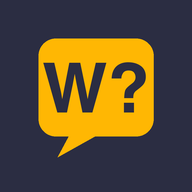
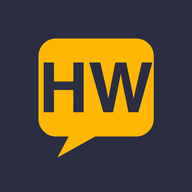
Show emoji pictures instead of word text; rename game to Hard Words

Changed region(s): [[0.2188, 0.3125, 0.8125, 0.5938]]

diff --git a/data/categories.js b/data/categories.js
@@ -1,5 +1,7 @@
 // Game content. To add a category or item, edit this file only.
-// (Then bump CACHE_VERSION in service-worker.js so installed copies refresh.)
+// Each item is a picture (emoji) shown on screen, plus a name that is kept for
+// screen readers but never shown. (Then bump CACHE_VERSION in service-worker.js
+// so installed copies refresh.)
 window.CATEGORIES = {
   categories: [
     {
@@ -7,17 +9,36 @@ window.CATEGORIES = {
       name: "Everyday Items",
       icon: "👜",
       items: [
-        "Toothbrush", "Umbrella", "Stapler", "Remote Control", "Backpack",
-        "Coffee Mug", "Alarm Clock", "Wallet", "Car Keys", "Sunglasses",
-        "Hair Dryer", "Microwave", "Toaster", "Scissors", "Tape Measure",
-        "Flashlight", "Garbage Can", "Bicycle", "Laundry Basket", "Pillow",
-        "Shopping Cart", "Vacuum Cleaner", "Frying Pan", "Refrigerator", "Doorbell",
-        "Light Bulb", "Paper Clip", "Calculator", "Razor", "Shower Curtain",
-        "Ironing Board", "Garden Hose", "Lawn Mower", "Ladder", "Mailbox",
-        "Water Bottle", "Cell Phone", "Headphones", "Laptop", "Printer",
-        "Broom", "Mop", "Sponge", "Dish Soap", "Blender",
-        "Can Opener", "Bathtub", "Mirror", "Clothes Hanger", "Watch",
-        "Backpack Zipper", "Trash Bag", "Rubber Band", "Sticky Note", "Doormat"
+        { emoji: "🪥", name: "Toothbrush" }, { emoji: "☂", name: "Umbrella" },
+        { emoji: "📎", name: "Paper Clip" }, { emoji: "📺", name: "Television" },
+        { emoji: "🎒", name: "Backpack" }, { emoji: "☕", name: "Coffee Mug" },
+        { emoji: "⏰", name: "Alarm Clock" }, { emoji: "👛", name: "Purse" },
+        { emoji: "🔑", name: "Key" }, { emoji: "🕶", name: "Sunglasses" },
+        { emoji: "🧹", name: "Broom" }, { emoji: "🧽", name: "Sponge" },
+        { emoji: "🧻", name: "Toilet Paper" }, { emoji: "🧼", name: "Soap" },
+        { emoji: "🪣", name: "Bucket" }, { emoji: "🛁", name: "Bathtub" },
+        { emoji: "🚿", name: "Shower" }, { emoji: "🚽", name: "Toilet" },
+        { emoji: "🪞", name: "Mirror" }, { emoji: "🪑", name: "Chair" },
+        { emoji: "🛏", name: "Bed" }, { emoji: "🛋", name: "Couch" },
+        { emoji: "🚪", name: "Door" }, { emoji: "🪟", name: "Window" },
+        { emoji: "💡", name: "Light Bulb" }, { emoji: "🔦", name: "Flashlight" },
+        { emoji: "🔋", name: "Battery" }, { emoji: "🔌", name: "Plug" },
+        { emoji: "📱", name: "Cell Phone" }, { emoji: "💻", name: "Laptop" },
+        { emoji: "🎧", name: "Headphones" }, { emoji: "🖨", name: "Printer" },
+        { emoji: "⌚", name: "Watch" }, { emoji: "✂", name: "Scissors" },
+        { emoji: "📏", name: "Ruler" }, { emoji: "📌", name: "Pushpin" },
+        { emoji: "🖊", name: "Pen" }, { emoji: "✏", name: "Pencil" },
+        { emoji: "📕", name: "Book" }, { emoji: "📰", name: "Newspaper" },
+        { emoji: "🧦", name: "Socks" }, { emoji: "👟", name: "Sneaker" },
+        { emoji: "🧢", name: "Baseball Cap" }, { emoji: "👓", name: "Glasses" },
+        { emoji: "🪒", name: "Razor" }, { emoji: "🪠", name: "Plunger" },
+        { emoji: "🧺", name: "Laundry Basket" }, { emoji: "🔨", name: "Hammer" },
+        { emoji: "🪜", name: "Ladder" }, { emoji: "🚲", name: "Bicycle" },
+        { emoji: "🛒", name: "Shopping Cart" }, { emoji: "🥄", name: "Spoon" },
+        { emoji: "🍴", name: "Fork and Knife" }, { emoji: "🍽", name: "Plate" },
+        { emoji: "🧯", name: "Fire Extinguisher" }, { emoji: "🧲", name: "Magnet" },
+        { emoji: "🕯", name: "Candle" }, { emoji: "✉", name: "Envelope" },
+        { emoji: "📦", name: "Package" }, { emoji: "🗑", name: "Trash Can" }
       ]
     },
     {
@@ -25,17 +46,29 @@ window.CATEGORIES = {
       name: "Holiday",
       icon: "🎄",
       items: [
-        "Christmas Tree", "Fireworks", "Jack-o-Lantern", "Menorah", "Turkey",
-        "Easter Egg", "Santa Claus", "Reindeer", "Snowman", "Candy Cane",
-        "Stocking", "Wreath", "Gingerbread House", "Mistletoe", "Eggnog",
-        "Valentine's Card", "Chocolate Heart", "Cupid", "Leprechaun", "Pot of Gold",
-        "Easter Bunny", "Basket", "Trick-or-Treat", "Witch Hat", "Ghost",
-        "Cobweb", "Pumpkin Pie", "Cranberry Sauce", "Thanksgiving Parade", "Pilgrim",
-        "Sparkler", "Confetti", "Countdown", "Champagne Toast", "New Year's Resolution",
-        "Gift Wrap", "Bow", "Ornament", "Tinsel", "Nutcracker",
-        "Advent Calendar", "Elf on the Shelf", "Dreidel", "Kwanzaa Candles", "Piñata",
-        "American Flag", "Barbecue", "Fourth of July Parade", "Candy Corn", "Costume Party",
-        "Christmas Carolers", "Snow Globe", "Sleigh", "Yule Log", "Fruitcake"
+        { emoji: "🎄", name: "Christmas Tree" }, { emoji: "🎆", name: "Fireworks" },
+        { emoji: "🎃", name: "Jack-o-Lantern" }, { emoji: "🕎", name: "Menorah" },
+        { emoji: "🦃", name: "Turkey" }, { emoji: "🥚", name: "Easter Egg" },
+        { emoji: "🎅", name: "Santa Claus" }, { emoji: "🦌", name: "Reindeer" },
+        { emoji: "⛄", name: "Snowman" }, { emoji: "🍬", name: "Candy" },
+        { emoji: "💌", name: "Love Letter" }, { emoji: "❤", name: "Heart" },
+        { emoji: "💘", name: "Cupid's Arrow" }, { emoji: "🍀", name: "Four-Leaf Clover" },
+        { emoji: "🐰", name: "Easter Bunny" }, { emoji: "👻", name: "Ghost" },
+        { emoji: "🕸", name: "Spider Web" }, { emoji: "🕷", name: "Spider" },
+        { emoji: "🦇", name: "Bat" }, { emoji: "🧙", name: "Witch" },
+        { emoji: "🧛", name: "Vampire" }, { emoji: "💀", name: "Skull" },
+        { emoji: "🥧", name: "Pie" }, { emoji: "🎁", name: "Gift" },
+        { emoji: "🎀", name: "Bow" }, { emoji: "🔔", name: "Bell" },
+        { emoji: "❄", name: "Snowflake" }, { emoji: "🌟", name: "Star" },
+        { emoji: "🎇", name: "Sparkler" }, { emoji: "🎉", name: "Party Popper" },
+        { emoji: "🥂", name: "Champagne Toast" }, { emoji: "🍾", name: "Champagne Bottle" },
+        { emoji: "🪅", name: "Piñata" }, { emoji: "🇺🇸", name: "American Flag" },
+        { emoji: "🌽", name: "Corn" }, { emoji: "🍂", name: "Fallen Leaves" },
+        { emoji: "🎊", name: "Confetti" }, { emoji: "🎈", name: "Balloon" },
+        { emoji: "🎂", name: "Birthday Cake" }, { emoji: "🧨", name: "Firecracker" },
+        { emoji: "🪔", name: "Diya Lamp" }, { emoji: "🏮", name: "Red Lantern" },
+        { emoji: "🧧", name: "Red Envelope" }, { emoji: "🛷", name: "Sled" },
+        { emoji: "🌹", name: "Rose" }, { emoji: "🍫", name: "Chocolate Bar" }
       ]
     },
     {
@@ -43,17 +76,32 @@ window.CATEGORIES = {
       name: "Vacation",
       icon: "✈",
       items: [
-        "Passport", "Sunscreen", "Suitcase", "Beach Towel", "Boarding Pass",
-        "Airport Security", "Hotel Key Card", "Swimsuit", "Flip-Flops", "Sandcastle",
-        "Snorkel", "Cruise Ship", "Rental Car", "Road Map", "Tour Guide",
-        "Souvenir", "Postcard", "Camera", "Selfie Stick", "Beach Umbrella",
-        "Hammock", "Palm Tree", "Room Service", "Minibar", "Pool Float",
-        "Surfboard", "Ski Lift", "Camping Tent", "Campfire", "Sleeping Bag",
-        "Hiking Boots", "Travel Pillow", "Carry-On Bag", "Luggage Tag", "Jet Lag",
-        "Layover", "Baggage Claim", "Currency Exchange", "Phrasebook", "Waterpark",
-        "Theme Park", "Roller Coaster", "Sightseeing Bus", "Museum", "Lighthouse",
-        "Scuba Diving", "Kayak", "Lifeguard", "Seashell", "Sunburn",
-        "Ferry", "Gondola", "Hot Air Balloon", "Motel", "Buffet Breakfast"
+        { emoji: "✈", name: "Airplane" }, { emoji: "🧳", name: "Suitcase" },
+        { emoji: "🏖", name: "Beach" }, { emoji: "🏝", name: "Island" },
+        { emoji: "🌴", name: "Palm Tree" }, { emoji: "☀", name: "Sun" },
+        { emoji: "🧴", name: "Sunscreen" }, { emoji: "🩴", name: "Flip-Flops" },
+        { emoji: "👙", name: "Bikini" }, { emoji: "🩱", name: "Swimsuit" },
+        { emoji: "🤿", name: "Snorkel Mask" }, { emoji: "🏄", name: "Surfer" },
+        { emoji: "🏊", name: "Swimmer" }, { emoji: "⛵", name: "Sailboat" },
+        { emoji: "🚢", name: "Cruise Ship" }, { emoji: "🚗", name: "Car" },
+        { emoji: "🗺", name: "Map" }, { emoji: "📷", name: "Camera" },
+        { emoji: "🎫", name: "Ticket" }, { emoji: "🏨", name: "Hotel" },
+        { emoji: "🛎", name: "Bellhop Bell" }, { emoji: "⛺", name: "Tent" },
+        { emoji: "🔥", name: "Campfire" }, { emoji: "🥾", name: "Hiking Boot" },
+        { emoji: "🏔", name: "Mountain" }, { emoji: "🌋", name: "Volcano" },
+        { emoji: "🗽", name: "Statue of Liberty" }, { emoji: "🗼", name: "Tower" },
+        { emoji: "🏰", name: "Castle" }, { emoji: "🎡", name: "Ferris Wheel" },
+        { emoji: "🎢", name: "Roller Coaster" }, { emoji: "🚡", name: "Cable Car" },
+        { emoji: "🚁", name: "Helicopter" }, { emoji: "🚂", name: "Train" },
+        { emoji: "🚌", name: "Bus" }, { emoji: "🚕", name: "Taxi" },
+        { emoji: "⛴", name: "Ferry" }, { emoji: "🛶", name: "Canoe" },
+        { emoji: "🐚", name: "Seashell" }, { emoji: "🦀", name: "Crab" },
+        { emoji: "🐠", name: "Tropical Fish" }, { emoji: "🐬", name: "Dolphin" },
+        { emoji: "🍹", name: "Tropical Drink" }, { emoji: "🍦", name: "Ice Cream" },
+        { emoji: "🪂", name: "Parachute" }, { emoji: "⛱", name: "Beach Umbrella" },
+        { emoji: "🌅", name: "Sunrise" }, { emoji: "🌊", name: "Wave" },
+        { emoji: "🧭", name: "Compass" }, { emoji: "🏛", name: "Ancient Ruins" },
+        { emoji: "🗿", name: "Moai Statue" }, { emoji: "🎿", name: "Skis" }
       ]
     },
     {
@@ -61,17 +109,36 @@ window.CATEGORIES = {
       name: "Unique",
       icon: "🎲",
       items: [
-        "Disco Ball", "Time Machine", "Rubber Chicken", "Lava Lamp", "Whoopee Cushion",
-        "Jetpack", "Crystal Ball", "Ouija Board", "Magic Wand", "Invisibility Cloak",
-        "Unicycle", "Pogo Stick", "Kazoo", "Bagpipes", "Accordion",
-        "Fog Machine", "Snow Cone Machine", "Hamster Wheel", "Bouncy Castle", "Ant Farm",
-        "Rubik's Cube", "Slinky", "Yo-Yo", "Hula Hoop", "Jack-in-the-Box",
-        "Party Horn", "Magic 8 Ball", "Voodoo Doll", "Robot Butler", "Flying Carpet",
-        "Genie Lamp", "Treasure Map", "Pirate Ship", "Ninja Star", "Suit of Armor",
-        "Trampoline", "Stilts", "Cotton Candy Machine", "Photo Booth", "Karaoke Machine",
-        "Piñata Bat", "Mechanical Bull", "Bubble Wrap", "Lightsaber", "Spaceship",
-        "Zamboni", "Jukebox", "Typewriter", "Rotary Phone", "Roller Skates",
-        "Bowling Alley", "Ice Sculpture", "Crop Circle", "Loch Ness Monster", "Bigfoot"
+        { emoji: "🪩", name: "Disco Ball" }, { emoji: "🔮", name: "Crystal Ball" },
+        { emoji: "🪄", name: "Magic Wand" }, { emoji: "🧞", name: "Genie" },
+        { emoji: "🧜", name: "Mermaid" }, { emoji: "🧚", name: "Fairy" },
+        { emoji: "🧟", name: "Zombie" }, { emoji: "🦄", name: "Unicorn" },
+        { emoji: "🐉", name: "Dragon" }, { emoji: "🦖", name: "T-Rex" },
+        { emoji: "🦕", name: "Long-Neck Dinosaur" }, { emoji: "👽", name: "Alien" },
+        { emoji: "🛸", name: "Flying Saucer" }, { emoji: "🚀", name: "Rocket" },
+        { emoji: "🤖", name: "Robot" }, { emoji: "👑", name: "Crown" },
+        { emoji: "💎", name: "Gem" }, { emoji: "🏴☠", name: "Pirate Flag" },
+        { emoji: "⚔", name: "Swords" }, { emoji: "🛡", name: "Shield" },
+        { emoji: "🏹", name: "Bow and Arrow" }, { emoji: "🎩", name: "Top Hat" },
+        { emoji: "🎭", name: "Theater Masks" }, { emoji: "🎪", name: "Circus Tent" },
+        { emoji: "🤡", name: "Clown" }, { emoji: "🎸", name: "Guitar" },
+        { emoji: "🥁", name: "Drums" }, { emoji: "🎷", name: "Saxophone" },
+        { emoji: "🎺", name: "Trumpet" }, { emoji: "🎻", name: "Violin" },
+        { emoji: "🪗", name: "Accordion" }, { emoji: "🪕", name: "Banjo" },
+        { emoji: "🎹", name: "Piano" }, { emoji: "🎤", name: "Microphone" },
+        { emoji: "🎰", name: "Slot Machine" }, { emoji: "🎲", name: "Dice" },
+        { emoji: "♟", name: "Chess Pawn" }, { emoji: "🧩", name: "Puzzle Piece" },
+        { emoji: "🪀", name: "Yo-Yo" }, { emoji: "🪁", name: "Kite" },
+        { emoji: "🛹", name: "Skateboard" }, { emoji: "🛼", name: "Roller Skate" },
+        { emoji: "🎳", name: "Bowling" }, { emoji: "🥊", name: "Boxing Glove" },
+        { emoji: "🪆", name: "Nesting Dolls" }, { emoji: "🧸", name: "Teddy Bear" },
+        { emoji: "📜", name: "Scroll" }, { emoji: "🏺", name: "Ancient Vase" },
+        { emoji: "🔭", name: "Telescope" }, { emoji: "🔬", name: "Microscope" },
+        { emoji: "🧪", name: "Test Tube" }, { emoji: "🧬", name: "DNA" },
+        { emoji: "🌈", name: "Rainbow" }, { emoji: "🐙", name: "Octopus" },
+        { emoji: "🦩", name: "Flamingo" }, { emoji: "🦚", name: "Peacock" },
+        { emoji: "🦥", name: "Sloth" }, { emoji: "🪐", name: "Ringed Planet" },
+        { emoji: "🌪", name: "Tornado" }
       ]
     }
   ]

diff --git a/index.html b/index.html
@@ -3,12 +3,12 @@
 <head>
   <meta charset="utf-8">
   <meta name="viewport" content="width=device-width, initial-scale=1, viewport-fit=cover">
-  <title>Words Are Hard</title>
-  <meta name="description" content="A fast, silly party game. Describe the word without saying the obvious things.">
+  <title>Hard Words</title>
+  <meta name="description" content="A fast, silly party game. Describe the picture without saying the obvious things.">
   <meta name="theme-color" content="#2b2d42">
   <meta name="apple-mobile-web-app-capable" content="yes">
   <meta name="apple-mobile-web-app-status-bar-style" content="black-translucent">
-  <meta name="apple-mobile-web-app-title" content="Words Are Hard">
+  <meta name="apple-mobile-web-app-title" content="Hard Words">
   <link rel="manifest" href="manifest.json">
   <link rel="icon" href="icons/icon-192.png">
   <link rel="apple-touch-icon" href="icons/icon-192.png">
@@ -20,7 +20,7 @@
     <!-- A. Main Menu -->
     <section id="screen-menu" class="screen" hidden>
       <div class="menu-hero">
-        <h1 class="title">Words<br>Are<br>Hard</h1>
+        <h1 class="title">Hard<br>Words</h1>
         <p class="tagline">Describe it. Act it out. Don't say the obvious.</p>
       </div>
       <div class="stack">
@@ -70,9 +70,10 @@
         <button id="btn-end" class="btn btn-ghost btn-small" type="button">End Round</button>
       </header>
       <div class="play-body">
-        <button id="reveal" class="reveal" type="button" aria-label="Next word">
-          <span id="reveal-word" class="reveal-word" aria-live="polite"></span>
-          <span class="reveal-hint">Tap for next word</span>
+        <button id="reveal" class="reveal" type="button" aria-label="Next picture">
+          <span id="reveal-emoji" class="reveal-emoji" aria-hidden="true"></span>
+          <span id="reveal-word" class="sr-only" aria-live="polite"></span>
+          <span class="reveal-hint">Tap for next picture</span>
         </button>
         <div id="score-bar" class="score-bar" role="group" aria-label="Tap the player who got it"></div>
       </div>
@@ -98,10 +99,10 @@
       <h2 id="howto-title">How to Play</h2>
       <ol>
         <li>Add everyone playing, then pick your categories.</li>
-        <li>Hold the screen so the describer can see the word (and nobody else).</li>
-        <li>Describe or act out the word without saying the obvious clues.</li>
-        <li>When someone guesses it, tap their name &mdash; they get a point and a new word appears.</li>
-        <li>Stuck? Tap the word to skip to the next one.</li>
+        <li>Hold the screen so the describer can see the picture (and nobody else).</li>
+        <li>Describe or act out the object without saying the obvious clues.</li>
+        <li>When someone guesses it, tap their name &mdash; they get a point and a new picture appears.</li>
+        <li>Stuck? Tap the picture to skip to the next one.</li>
         <li>Tap <strong>End Round</strong> when you're done to see who won.</li>
       </ol>
       <button id="btn-howto-close" class="btn btn-primary btn-big" type="button">Got it</button>

diff --git a/style.css b/style.css
@@ -161,12 +161,10 @@ input { -webkit-user-select: text; user-select: text; }
   border-radius: 24px;
   cursor: pointer;
 }
-.reveal-word {
-  font-size: clamp(2rem, 11vw, 4.5rem);
-  font-weight: 800;
-  line-height: 1.1;
+.reveal-emoji {
+  font-size: min(42vmin, 16rem);
+  line-height: 1;
   text-align: center;
-  overflow-wrap: anywhere;
 }
 .reveal-hint { color: var(--muted); font-size: 0.9rem; }
 .reveal.pulse { animation: pulse var(--pulse) ease-out; }
@@ -205,8 +203,7 @@ input { -webkit-user-select: text; user-select: text; }
     grid-template-columns: repeat(auto-fit, minmax(96px, 1fr));
     align-content: start;
   }
-  .title { font-size: clamp(2.2rem, 10vh, 4rem); }
-  .title br { display: none; }
+  .title { font-size: clamp(2.2rem, 10vh, 4rem); margin-bottom: 8px; }
 }
 
 /* ---------- Summary ---------- */

diff --git a/script.js b/script.js
@@ -161,7 +161,7 @@
     CATEGORIES.forEach(function (c) {
       if (state.selected.indexOf(c.id) === -1) return;
       c.items.forEach(function (item) {
-        var key = item.toLowerCase();
+        var key = item.name.toLowerCase();
         if (!seen[key]) { seen[key] = true; out.push(item); }
       });
     });
@@ -180,8 +180,9 @@
 
   function nextItem() {
     if (state.queue.length === 0) buildQueue();
-    state.current = state.queue.pop() || "";
-    $("reveal-word").textContent = state.current;
+    state.current = state.queue.pop() || { emoji: "", name: "" };
+    $("reveal-emoji").textContent = state.current.emoji;
+    $("reveal-word").textContent = state.current.name; // screen readers only
   }
 
   // ---------- Play ----------

diff --git a/service-worker.js b/service-worker.js
@@ -1,6 +1,6 @@
 // Bump CACHE_VERSION whenever any app file (including data/categories.js) changes,
 // so installed copies pick up the update.
-var CACHE_VERSION = "v1";
+var CACHE_VERSION = "v2";
 var CACHE_NAME = "words-are-hard-" + CACHE_VERSION;
 var APP_SHELL = [
   "./",

diff --git a/README.md b/README.md
@@ -1,6 +1,6 @@
-# Words Are Hard (Web)
+# Hard Words (Web)
 
-A fast, silly party game for a group in one room. One phone is held up or passed around: tap the word to reveal the next one, describe or act it out without saying the obvious clues, and tap the player who guessed it to give them a point.
+A fast, silly party game for a group in one room. One phone is held up or passed around: tap the picture to reveal the next one, describe or act it out without saying the obvious clues, and tap the player who guessed it to give them a point.
 
 Plain HTML/CSS/JS — no framework, no build step, no backend. Installable as a PWA and playable offline once visited.
 
@@ -18,7 +18,7 @@ python3 -m http.server 8000
 Edit only `data/categories.js`:
 
 ```js
-{ id: "food", name: "Food", icon: "🍕", items: ["Pizza", "Taco"] }
+{ id: "food", name: "Food", icon: "🍕", items: [{ emoji: "🍕", name: "Pizza" }, { emoji: "🌮", name: "Taco" }] }
 ```
 
 Then bump `CACHE_VERSION` in `service-worker.js` (e.g. `"v2"`) so already-installed copies refresh.
@@ -38,5 +38,5 @@ All paths are relative, so it works from a sub-path like `/<repo>/` with no chan
 | `index.html` | Screens/markup, service worker registration |
 | `style.css` | Styling, portrait + landscape layouts |
 | `script.js` | Game logic and screen state machine |
-| `data/categories.js` | Categories and word lists |
+| `data/categories.js` | Categories and pictures (emoji) |
 | `manifest.json`, `service-worker.js`, `icons/` | PWA install + offline |
